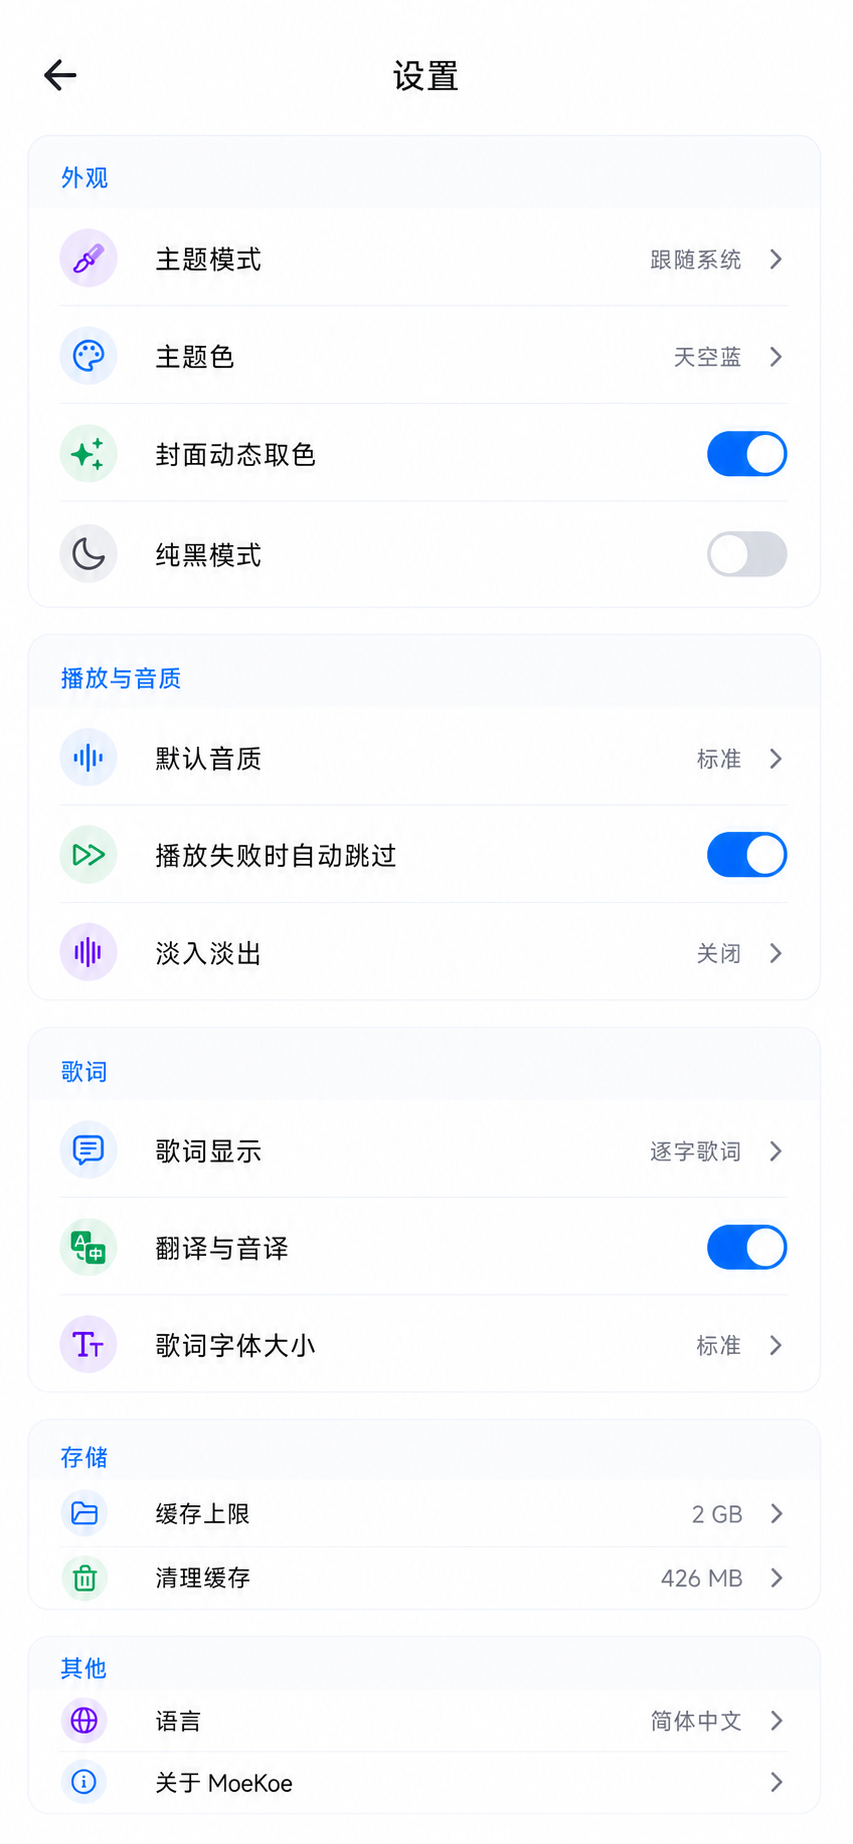
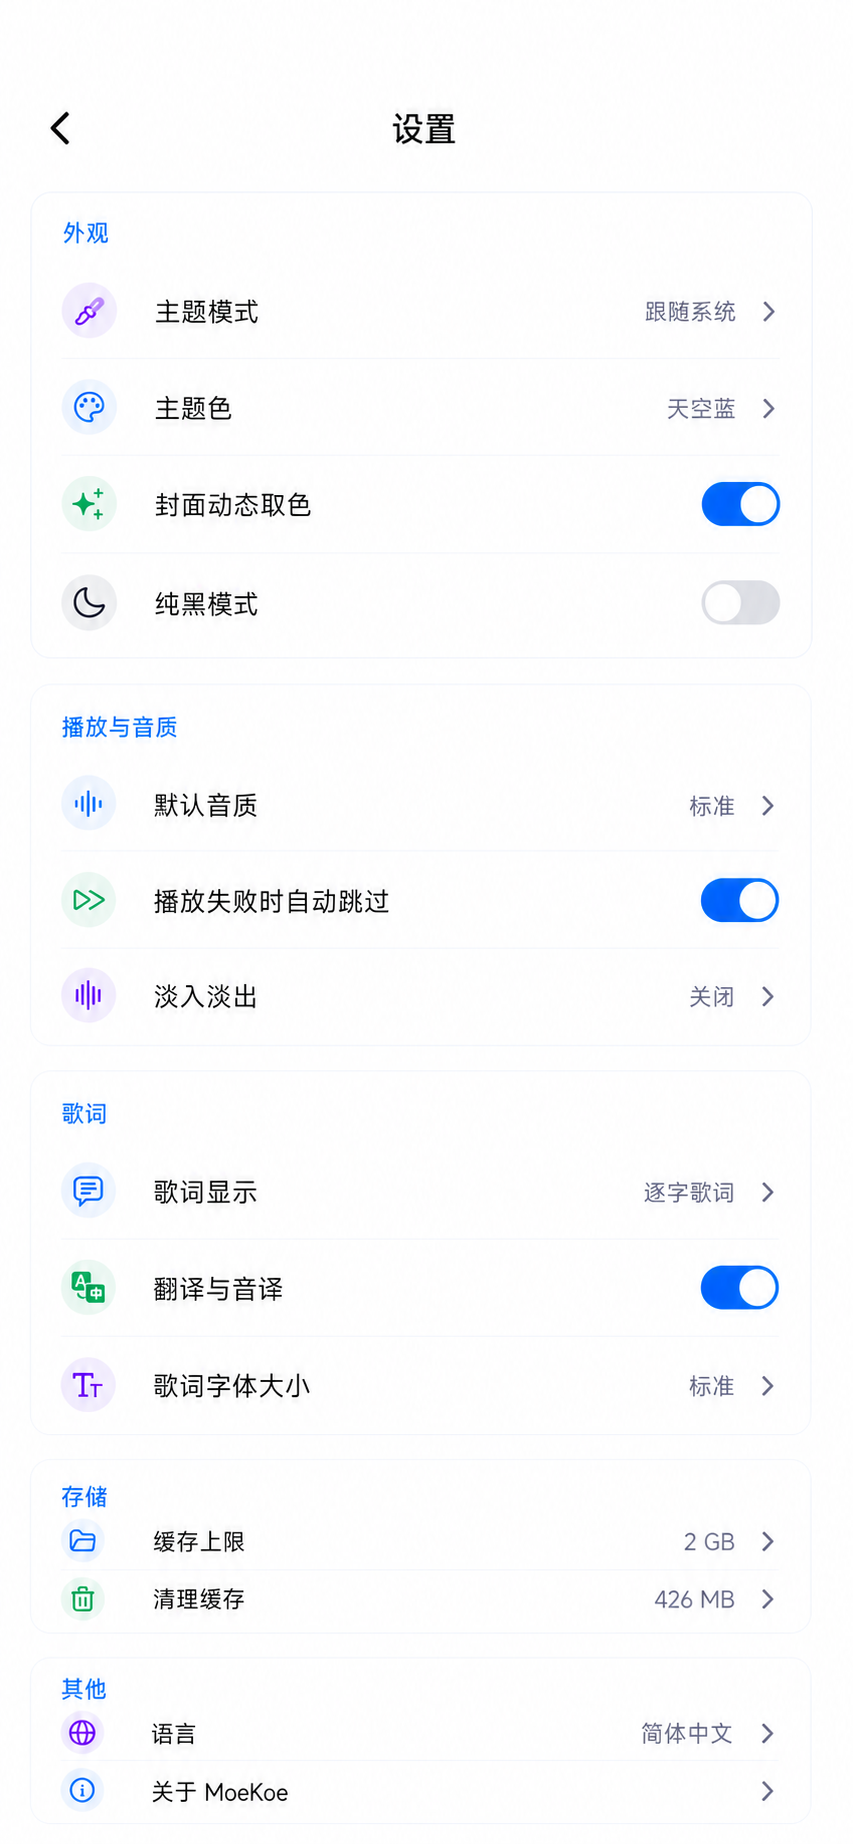
docs(design): align toolbar inputs and dialogs

diff --git a/docs/DESIGN_SYSTEM.md b/docs/DESIGN_SYSTEM.md
@@ -173,6 +173,8 @@
 
 默认启用 edge-to-edge，系统状态栏 Insets 由页面/Toolbar 统一处理且不计入 `64dp` 内容高度。透明 Toolbar 必须根据背景对比度选择前景色；复杂背景只给独立操作增加必要的对比 Surface，不给整个顶部增加磨砂层。
 
+`10-user-profile.png` 是标准 Toolbar 的坐标与视觉母版：设计图保留顶部系统安全区留白，但不自行绘制时间、信号、Wi-Fi 或电池图形；运行时系统栏仍由 Android 绘制。无尾部操作的设置页沿用同一标题基线、左侧 Chevron 锚点和内容起点，只把尾部操作替换为对称空槽。返回图形必须使用共享 `MoeNavigateBackIcon` 的无横杆圆端 Chevron，不得换成带水平箭杆的 Material ArrowBack。
+
 ### 底部结构
 
 - 一级底部导航固定为“首页 / 发现 / 我的”。
@@ -185,6 +187,9 @@
 - 普通按钮最小高度 `48dp`，页面主操作可使用 `56dp`；加载状态不能改变按钮宽度。
 - 按钮类型限制为 Filled、Filled Tonal、Outlined、Text 和 Destructive，避免业务页面创建新形态。
 - 输入框建议高度 `56dp`，圆角 `16–20dp`；聚焦使用 Primary 描边，错误使用 Error 描边和内联错误。
+- 带语义前导图标的输入框以已确认登录输入框为母版：图标不是裸放，也不使用圆形底板，而是居中放入低强调的圆角方形 `primaryContainer`。Compact 输入使用约 `30dp` 容器、`8dp` 圆角和 `18dp` 图标；Default 输入使用约 `32dp` 容器、`8dp` 圆角和 `20dp` 图标。浅色主题容器使用 `primaryContainer` 约 56% 强度，图标使用 `primary`，并可保留极弱的 Primary 描边。
+- 手机、验证码、账号和密码分别使用 Phone、VerifiedUser、AccountCircle 与 Lock 的实心语义图标。聚焦和错误只改变输入框描边与内联反馈，默认不把前导语义图标改成 Error 色；禁用时保留容器形状并整体降低强调。
+- 密码可见性、清除和验证码操作属于尾部交互：可见图形不增加 Tonal 底板，但语义触控区不得小于 `48dp`。国家码、下拉图标和固定分隔线属于输入内容结构，不能挤压占位文本或在状态切换时跳动。
 - 验证错误不得只使用 Toast；验证码倒计时不能导致尾部操作宽度跳变。
 - Segmented Button 用于同级模式切换，例如“验证码 / 密码 / 扫码”；页面层级切换继续使用 Navigation 或 Tab。
 - HQ、MV、VIP、已下载等状态使用统一徽标，不与歌曲标题争夺视觉层级。
@@ -205,7 +210,7 @@
 - 覆盖层状态设计图统一采用“原页面画布 → 规范遮罩 → 独立 Dialog 或 Bottom Sheet 前景层”的确定性合成方式；不得重新生成遮罩后的底层页面，底层文案、输入草稿、控件尺寸与坐标必须保持不变。
 - Bottom Sheet 必须贴住手机视口底部，占满可用宽度，仅顶部使用 `28dp` 圆角，并处理底部安全区；使用遮罩与统一轻量顶缘投影分层，默认 `24dp` 水平内边距、一个 `48dp` Filled 主操作和一个 TextButton 取消，不堆叠两个同等级全宽按钮。
 - 手机普通确认 Dialog 在 `390dp` 登录参考宽度上为 `304dp`，六位验证码等结构化输入 Dialog 为 `320dp`；它们分别对应约 `664` 与 `699` 个登录设计单位，Compact 窗口按页面统一系数缩放，不写成脱离设计画布的固定运行宽度。参考画布的单侧边距约为 `43dp` 与 `35dp`。高度由内容决定；`fontScale = 1.0` 时字号、验证码格和操作文案按设计比例，系统大字体时只做可访问性增高/换行。Dialog 使用系统 `Dialog` 的完整可用视口居中行为，不增加业务自定义纵向偏移，也不根据顶部/底部剩余间距重新计算位置。遮罩约为 32% 黑色。双操作区在参考画布使用两个视觉高度 `48dp`、间距 `12dp` 的按钮，随页面统一比例映射且语义触控区始终不小于 `48dp`：左侧取消为低强调 Tonal 容器，右侧主操作为 Filled 容器；不得再把取消画成与主按钮错位的裸文字。Filled 禁用态遵循全局约 `35%` 主色容器与约 `82%` `onPrimary` 内容规则，不回退成与白色表面融合的中性灰块。
-- Dialog 前景使用 `surface` 背景，标题沿用 `titleMedium` 尺寸并提升为 Bold；启用的 Tonal 取消按钮使用 `primaryContainer` 容器与 `primary` 文案，加载锁定时才回落为中性灰禁用态。Filled 确认按钮继续遵循全局启用、加载和禁用规则。
+- 已完成的登录风险确认与短信验证 Dialog 是全局 Dialog 视觉母版。Dialog 前景使用 `surface` 背景，标题沿用 `titleMedium` 尺寸并提升为 Bold；启用的 Tonal 取消按钮使用 `primaryContainer` 容器与 `primary` 文案，加载锁定时才回落为中性灰禁用态。Filled 确认按钮继续遵循全局启用、加载和禁用规则。其他业务只替换标题、正文、图标或结构化内容，不得重画另一套容器、标题字重、操作区或居中算法。
 - Snackbar 左右边距 `16dp`，最多两行和一个操作，位于 MiniPlayer 上方。
 - DropdownMenu 必须锚定触发控件；音质、排序等多项单选优先使用 Bottom Sheet。
 - 同一时间只展示一个模态覆盖层；系统返回、焦点恢复和遮罩关闭规则必须明确。

diff --git a/docs/UI_COMPONENTS.md b/docs/UI_COMPONENTS.md
@@ -7,6 +7,8 @@
 - [`11-dialog-components.png`](design/mockups/11-dialog-components.png)
 - [`12-feedback-components-v2.png`](design/mockups/12-feedback-components-v2.png)
 - [`18-mobile-states-overlays-v2.png`](design/mockups/candidates/design-system-v2/18-mobile-states-overlays-v2.png)（待确认；数值与行为仍以本文为准）
+- [`19d-password-risk-dialog.png`](design/mockups/candidates/login-v2/19d-password-risk-dialog.png)（已确认的普通确认型视觉母版）
+- [`21a-risk-sms-default.png`](design/mockups/candidates/login-v2/21a-risk-sms-default.png)（已确认的结构化输入型视觉母版）
 
 ## 反馈方式选择
 
@@ -48,6 +50,7 @@
 
 ### 通用尺寸与外观
 
+- 全局 Dialog 优先复用登录页已经完成并通过符合度复核的 `MoeDialog` / `MoeAlertDialog` 外观；`11` 与 `18` 只补充类型和状态总览，不得覆盖登录母版的白色 Surface、标题字重、操作区和系统居中行为。
 - 登录参考画布宽度为 `390dp` 时，普通确认型视觉宽度为 `304dp`，六位验证码等结构化输入型为 `320dp`，单侧边距分别约为 `43dp` 与 `35dp`。它们对应页面设计坐标，Compact 窗口必须随登录页统一比例映射，不能作为与画布无关的固定运行尺寸。大字体下允许内容增高和换行，不固定高度；系统字体倍率属于可访问性适配，不改变基准 `1.0×` 设计比例。
 - 登录 Dialog 的具体坐标、缩放、遮罩与符合度误差遵循 [`design/LOGIN_LAYOUT_SPEC.md`](design/LOGIN_LAYOUT_SPEC.md)。其他页面若已有确认稿，以各自页面适配契约为准，不能直接套用登录画布比例。
 - 默认 Dialog 必须相对完整可用视口水平、垂直居中；不得以页面内容区、底部表单、键盘上方剩余区域或触发控件作为视觉居中基准。只有 Bottom Sheet 可以贴底呈现。

diff --git a/docs/design/mockups/candidates/design-system-v2/README.md b/docs/design/mockups/candidates/design-system-v2/README.md
@@ -17,3 +17,11 @@
 
 确认前不得覆盖现有正式图片；确认后在一个独立提交中替换正式基线、更新页面映射，
 再开始公共 Toolbar API 与页面消费者的 Compose 改造。
+
+## 2026-08-07 反馈修订
+
+- `09-settings-v2.png` 的 Toolbar 重新以 `10-user-profile.png` 为坐标母版：保留顶部安全区留白，不绘制系统状态栏示意图；使用共享无横杆 Chevron、同一居中标题基线和内容起点。
+- `16-actions-inputs-v2.png` 的输入图标改以当前登录 Compose 确认实现为母版：Phone、VerifiedUser、AccountCircle、Lock 使用浅蓝圆角方形前导容器；密码可见性等尾部操作保持无可见底板和至少 `48dp` 语义触控区。
+- `18-mobile-states-overlays-v2.png` 的 Dialog 改以登录风险确认与短信验证为母版：系统居中、白色 Surface、Bold 标题、`304/320dp` 两类宽度、`12dp` 双按钮间距、Tonal 取消和 Filled 确认。
+
+本轮只修订候选图与规范文本，没有晋级正式基线，也没有修改 Compose。图板中的自动生成说明文字仍只作视觉辅助；组件数值与行为以 `DESIGN_SYSTEM.md`、`UI_COMPONENTS.md` 和已确认登录实现为准。
